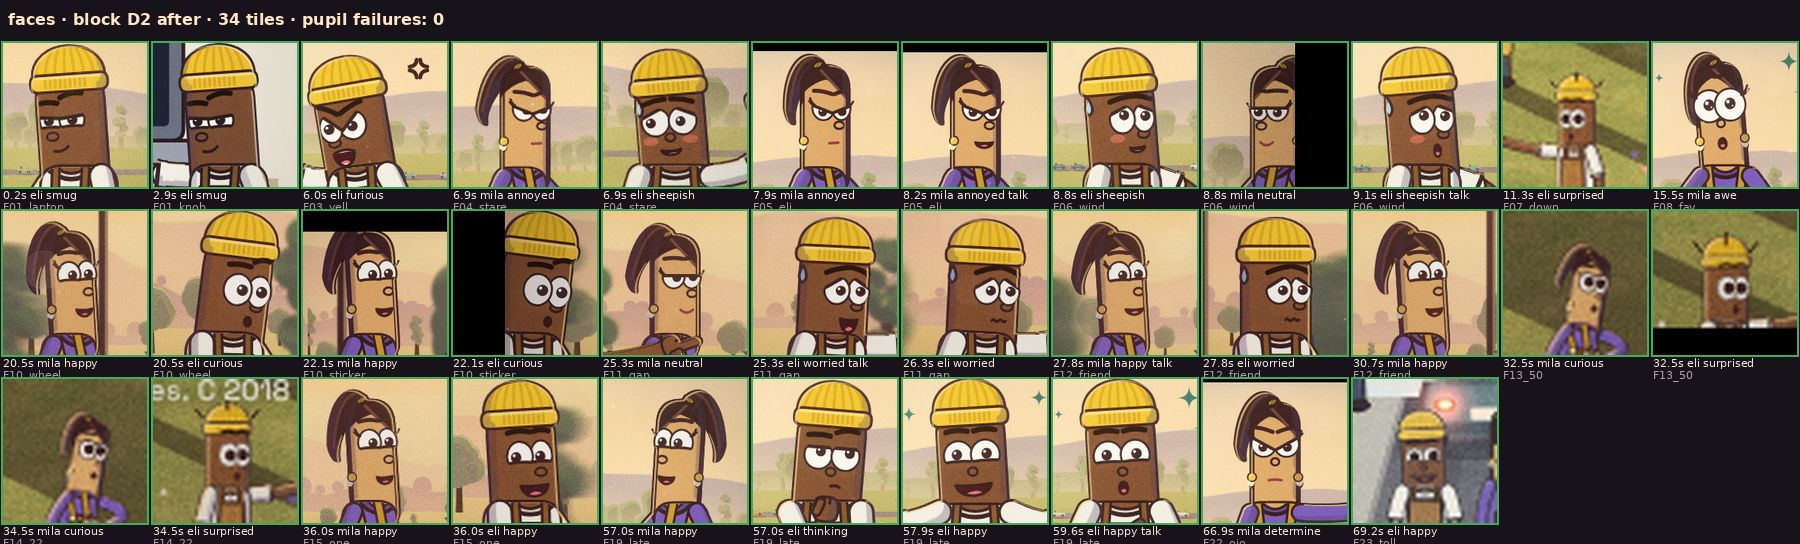
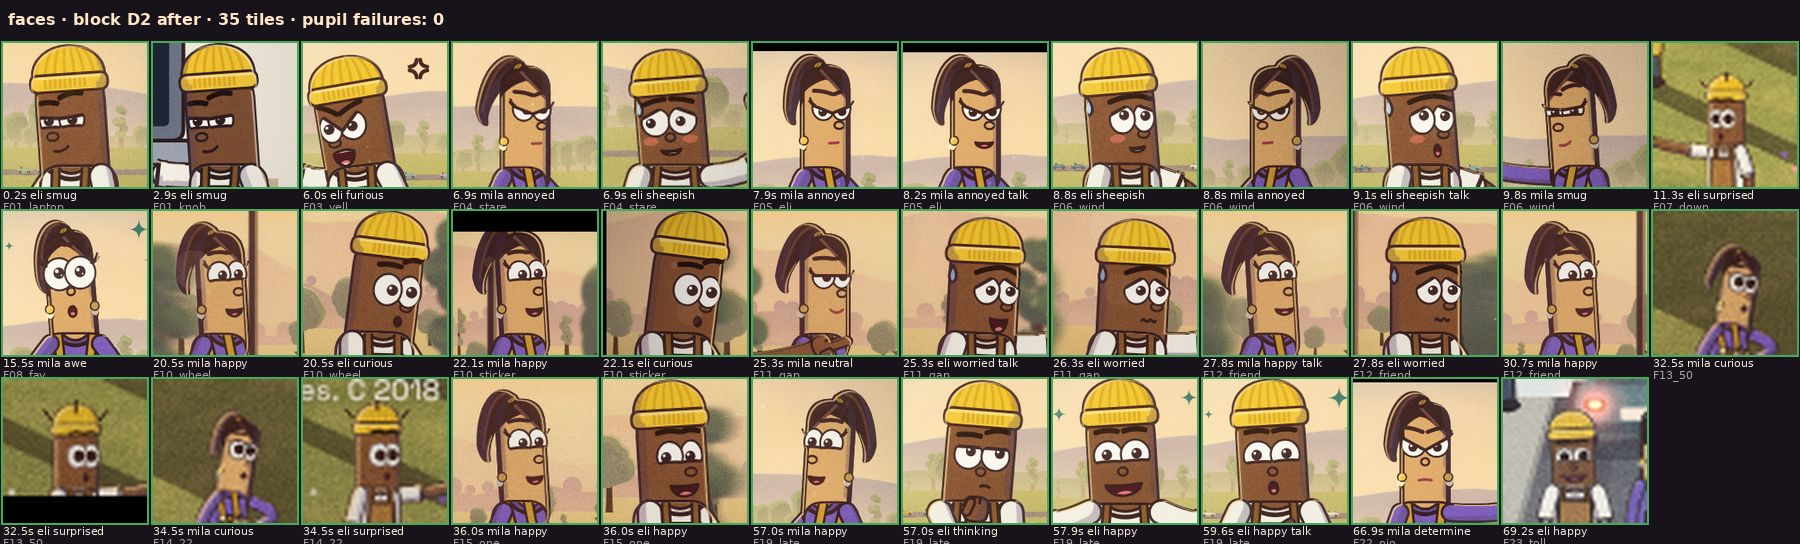
eyes: block D1 re-rendered at draft with the fixed eye system (faces audit 0 pupil failures)
Claude-Session: https://claude.ai/code/session_01Xa8YPWmmU68CUYj3YXfuu9

diff --git a/newchannel/ep/001/animatic/shots_blockD1.js b/newchannel/ep/001/animatic/shots_blockD1.js
@@ -118,12 +118,14 @@
       // ================================================================ BEAT 15 · the different car
       shots.push({ id: 'E09_distinct', start: tPero - 0.1, bg: 'ring_av', label: 'ACELERADO ×4', focus: [960, 540], push: 0.03, over: c => { rec(c, true); src(c); },
         draw(c, t, lt) { const ts = CTRL(t), S = S7().at(ts), p = A.clampView(A.ringPt(AV, S), 1.8); c.save(); c.translate(960, 540); c.scale(1.8, 1.8); c.translate(-p[0], -p[1]); A.ring(c, t, ringOpts(ts)); c.restore(); } });
+      // eyes pass (2026-10-16): in the two tight E10 shots (the computer car is the subject) Eli + Mila stood at the very
+      // frame edge, cut off (head over the top / right edge): they are left out of these two shots (hero: () => true)
       shots.push({ id: 'E10_computer', start: tUna - 0.1, bg: 'ring_av_close', label: 'ACELERADO ×4', focus: [960, 540], push: 0.03, pushDir: 1, over: c => { rec(c, true); src(c); },
         draw(c, t, lt) { const ts = CTRL(t), S = S7().at(ts), p = A.clampView(A.ringPt(AV, S), 2.6); c.save(); c.translate(960, 540); c.scale(2.6, 2.6); c.translate(-p[0], -p[1]);
-          A.ring(c, t, ringOpts(ts, { carOver: (cx, i, x, y) => { if (i === AV) P.pill(cx, x, y - 70, 'COMPUTADORA', 14, A.ramp(t, tCompu - 0.1, 0.2), { align: 'center', bg: K.rgba('#23746C', 0.92) }); } })); c.restore(); } });
+          A.ring(c, t, ringOpts(ts, { hero: () => true, carOver: (cx, i, x, y) => { if (i === AV) P.pill(cx, x, y - 70, 'COMPUTADORA', 14, A.ramp(t, tCompu - 0.1, 0.2), { align: 'center', bg: K.rgba('#23746C', 0.92) }); } })); c.restore(); } });
       shots.push({ id: 'E10_nochase', start: tNo - 0.1, bg: 'ring_av2', label: 'ACELERADO ×4', focus: [960, 540], push: 0.03, pushDir: -1, over: c => { rec(c, true); src(c); },
         draw(c, t, lt) { const ts = CTRL(t), S = S7().at(ts), p = A.clampView(A.ringPt(AV, S), 2.1); c.save(); c.translate(960, 540); c.scale(2.1, 2.1); c.translate(-p[0], -p[1]);
-          A.ring(c, t, ringOpts(ts, { extra: { over: (cx, g2s, cars, S2) => { const q = A.ringPt(AV, S2), lead = A.ringPt(AV + 1, S2); P.spring(cx, q, lead, 0.9); } } })); c.restore(); } });
+          A.ring(c, t, ringOpts(ts, { hero: () => true, extra: { over: (cx, g2s, cars, S2) => { const q = A.ringPt(AV, S2), lead = A.ringPt(AV + 1, S2); P.spring(cx, q, lead, 0.9); } } })); c.restore(); } });
       // E11 · PROMEDIO: the computer's needle stays still while the others jump
       shots.push({ id: 'E11_promedio', start: tIr - 0.1, bg: 'ring_needles', label: 'ACELERADO ×4', focus: [960, 540], push: 0.025, pushDir: 1, over: c => { rec(c, true); src(c); },
         draw(c, t, lt) { const ts = CTRL(t), S = S7().at(ts), p = A.clampView(A.ringPt(AV, S), 1.7);
@@ -148,7 +150,7 @@
       // E13 · the spring in front of the computer car; Eli's fingers itch, he steps in to push... Mila pulls him back
       shots.push({ id: 'E13_spring', start: tEl - 0.1, bg: 'ring_spring', label: 'ACELERADO ×4', focus: [960, 540], push: 0.03, pushDir: 1, over: c => { rec(c, true); src(c); },
         draw(c, t, lt) { const ts = CTRL(t), S = S7().at(ts), p = A.clampView(A.ringPt(AV, S), 2.3); c.save(); c.translate(960, 540); c.scale(2.3, 2.3); c.translate(-p[0], -p[1]);
-          A.ring(c, t, ringOpts(ts, { extra: { over: (cx, g2s, cars, S2) => P.spring(cx, A.ringPt(AV, S2), A.ringPt(AV + 1, S2), 1) } })); c.restore(); },
+          A.ring(c, t, ringOpts(ts, { hero: () => true, extra: { over: (cx, g2s, cars, S2) => P.spring(cx, A.ringPt(AV, S2), A.ringPt(AV + 1, S2), 1) } })); c.restore(); },
         cues: A => [{ t: tEstira, kind: 'spring' }, { t: w('encoge', 1, '15'), kind: 'spring' }] });
       const pull = tResorteE - 0.15;
       shots.push({ id: 'E13_pull', start: tComo - 0.1, bg: 'field_pull', focus: [960, 520], push: 0.03, pushDir: -1, over: c => rec(c, false),
